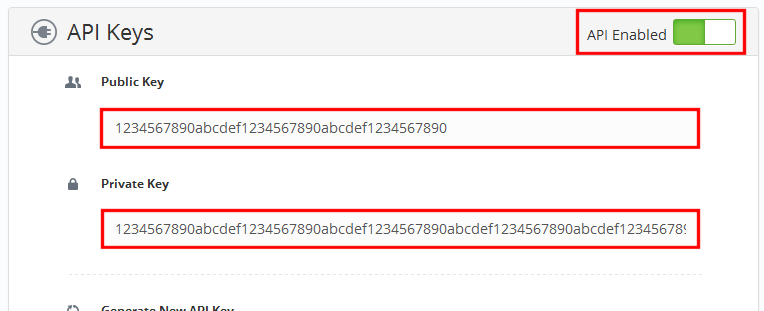
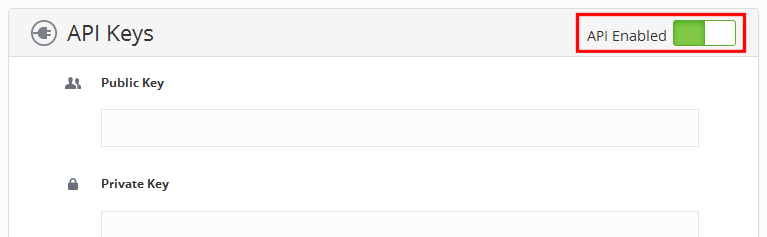
issue #104: adding support for Cryptsy accounts using Application keys
git-svn-id: https://openclerk.googlecode.com/svn/trunk@883 b12a1112-ca08-e5dd-f792-535eff3abf3b

diff --git a/templates/inline_accounts_cryptsy.php b/templates/inline_accounts_cryptsy.php
@@ -5,33 +5,42 @@ $account_data = array('exchange_name' => get_exchange_name('cryptsy'));
 <div class="instructions_add">
 <h2>Adding a <?php echo $account_data['exchange_name']; ?> account</h2>
 
-<h3 class="unsafe_warning">Warning: Providing your <?php echo $account_data['exchange_name']; ?> account data is <a href="http://code.google.com/p/openclerk/wiki/Unsafe">unsafe</a>.</h3>
-
 <ol class="steps">
-	<li>Log into your <a href="https://mtgox.com/security"><?php echo $account_data['exchange_name']; ?> account</a> and visit your <i>Settings</i>.<br>
+	<li>Log into your <a href="https://www.cryptsy.com/users/settings"><?php echo $account_data['exchange_name']; ?> account</a> and visit your <i>Settings</i>.<br>
 		<img src="<?php echo htmlspecialchars(url_for('img/accounts/cryptsy1.png')); ?>"></li>
 
-	<li>Under <i>API Keys</i>, make sure that your API is <i>enabled</i>.
-		Copy and paste your <i>Public Key</i> and <i>Private Key</i> into the <a class="wizard_link" href="<?php echo htmlspecialchars(url_for('wizard_accounts_exchanges')); ?>">"Add new Exchange" form</a>, and click "Add account".<br>
+	<li>Under <i>API Keys</i>, make sure that your API is <i>enabled</i>.<br>
+		<h1>TODO is this necessary?</h1>
 		<img src="<?php echo htmlspecialchars(url_for('img/accounts/cryptsy2.png')); ?>"></li>
+
+	<li>Under <i>Application Keys</i>, click on "Add New Application Key".<br>
+		<img src="<?php echo htmlspecialchars(url_for('img/accounts/cryptsy3.png')); ?>"></li>
+
+	<li>Select an <i>App ID</i> (for example, "Openclerk").
+		Make sure that the key has no permissions enabled, fill out any 2FA fields necessary, and click "Add Application Key".<br>
+		<img src="<?php echo htmlspecialchars(url_for('img/accounts/cryptsy4.png')); ?>"></li>
+
+	<li>Refresh the page. Once the page has reloaded, click on the <i>Edit Key</i> button for your new application key to view the necessary keys.<br>
+		<img src="<?php echo htmlspecialchars(url_for('img/accounts/cryptsy5.png')); ?>"></li>
+
+	<li>Copy and paste your <i>Application Key</i> and <i>App ID</i> into the <a class="wizard_link" href="<?php echo htmlspecialchars(url_for('wizard_accounts_exchanges')); ?>">"Add new Exchange" form</a>, and click "Add account".<br>
+		<img src="<?php echo htmlspecialchars(url_for('img/accounts/cryptsy6.png')); ?>"></li>
 </ol>
 </div>
 
 <div class="instructions_safe">
-<h2>Is it safe to provide <?php echo htmlspecialchars(get_site_config('site_name')); ?> a <?php echo $account_data['exchange_name']; ?> API key?</h2>
+<h2>Is it safe to provide <?php echo htmlspecialchars(get_site_config('site_name')); ?> a <?php echo $account_data['exchange_name']; ?> application API key?</h2>
 
 <ul>
-	<li><strong class="unsafe_warning">Providing <?php echo $account_data['exchange_name']; ?> account data is <a href="http://code.google.com/p/openclerk/wiki/Unsafe">unsafe</a>;</strong>
-		you need to ensure that you trust this server, and that it is not possible for somebody to access your host or database.</li>
+	<li>The <?php echo $account_data['exchange_name']; ?> application API key that you provide is not given any permissions, except to retrieve account status.
+		This means that it should not be possible
+		to perform trades or withdraw funds using that key.</li>
 
-	<li><?php echo $account_data['exchange_name']; ?> API keys are <strong>not read-only</strong>, and if someone was to
-		access your account data, they could make trades or withdraw funds using these keys.</li>
-
-	<li>Your <?php echo $account_data['exchange_name']; ?> keys and secrets will <i>never</i> be displayed on the <?php echo htmlspecialchars(get_site_config('site_name')); ?>
+	<li>Your <?php echo $account_data['exchange_name']; ?> keys will <i>never</i> be displayed on the <?php echo htmlspecialchars(get_site_config('site_name')); ?>
 		site, even if you have logged in.</li>
 
 	<li>Through the <?php echo $account_data['exchange_name']; ?> interface you can revoke a set of API keys&apos; access at any time by
-		going to <i>API Keys</i> and clicking on the green <i>Generate New Key</i> icon.<br>
-		<img src="<?php echo htmlspecialchars(url_for('img/accounts/cryptsy3.png')); ?>"></li>
+		going to <i>Application Keys</i> and clicking on the <i>Remove Application Key</i> button.<br>
+		<img src="<?php echo htmlspecialchars(url_for('img/accounts/cryptsy-delete.png')); ?>"></li>
 </ul>
 </div>

diff --git a/inc/crypto.php b/inc/crypto.php
@@ -308,7 +308,7 @@ function get_supported_wallets() {
 		"coinhuntr" => array('ltc', 'hash'),
 		"cryptostocks" => array('btc', 'ltc'),
 		"crypto-trade" => array('usd', 'eur', 'btc', 'ltc', 'nmc', 'ftc', 'ppc', 'xpm', 'trc'),
-		"cryptsy" => array('btc', 'ltc', 'ppc', 'ftc', 'xpm', 'nvc', 'trc', 'dog'),
+		"cryptsy" => array('btc', 'ltc', 'ppc', 'ftc', 'xpm', 'nvc', 'trc', 'dog', 'mec'),
 		"cexio" => array('btc', 'ghs', 'nmc'),		// also available: ixc, dvc
 		"dedicatedpool" => array('dog', 'hash'),		// other coins available
 		"dogechainpool" => array('dog', 'hash'),
@@ -365,7 +365,7 @@ function get_supported_wallets_safe() {
 }
 
 function get_new_supported_wallets() {
-	return array("miningpoolco", "vaultofsatoshi", "50btc", "ecoining", "ecoining_ppc", "teamdoge", "dedicatedpool", "dedicatedpool_doge", "nut2pools", "nut2pools_ftc");
+	return array("cryptsy");
 }
 
 // TODO remove xxx_address() and use this function instead
@@ -581,7 +581,7 @@ function account_data_grouped() {
 			'cexio' => array('table' => 'accounts_cexio', 'group' => 'accounts', 'wizard' => 'exchanges', 'failure' => true),
 			'coinbase' => array('table' => 'accounts_coinbase', 'group' => 'accounts', 'wizard' => 'exchanges', 'failure' => true),
 			'crypto-trade' => array('table' => 'accounts_cryptotrade', 'group' => 'accounts', 'wizard' => 'exchanges', 'failure' => true),
-			'cryptsy' => array('table' => 'accounts_cryptsy', 'group' => 'accounts', 'wizard' => 'exchanges', 'failure' => true, 'unsafe' => true),
+			'cryptsy' => array('table' => 'accounts_cryptsy', 'group' => 'accounts', 'wizard' => 'exchanges', 'failure' => true),
 			'justcoin' => array('table' => 'accounts_justcoin', 'group' => 'accounts', 'wizard' => 'exchanges', 'failure' => true),
 			'mtgox' => array('table' => 'accounts_mtgox', 'group' => 'accounts', 'wizard' => 'exchanges', 'failure' => true),
 			'vaultofsatoshi' => array('table' => 'accounts_vaultofsatoshi', 'group' => 'accounts', 'wizard' => 'exchanges', 'failure' => true),
@@ -1476,8 +1476,8 @@ function get_accounts_wizard_config_basic($exchange) {
 		case "cryptsy":
 			return array(
 				'inputs' => array(
-					'api_public_key' => array('title' => 'Public key', 'callback' => 'is_valid_cryptsy_public_key', 'length' => 40),
-					'api_private_key' => array('title' => 'Private key', 'callback' => 'is_valid_cryptsy_private_key', 'length' => 80),
+					'api_public_key' => array('title' => 'Application key', 'callback' => 'is_valid_cryptsy_public_key', 'length' => 40),
+					'api_private_key' => array('title' => 'App ID', 'callback' => 'is_valid_cryptsy_private_key', 'length' => 80),
 				),
 				'table' => 'accounts_cryptsy',
 			);
@@ -2356,13 +2356,13 @@ function is_valid_ypool_apikey($key) {
 }
 
 function is_valid_cryptsy_public_key($key) {
-	// looks like a 40 character hex string
-	return strlen($key) == 40 && preg_match("#^[a-f0-9]+$#", $key);
+	// looks like a 40 character hex string (full trade) or 18-19 characters (application keys)
+	return (strlen($key) >= 16 || strlen($key) <= 40) && preg_match("#^[a-f0-9]+$#", $key);
 }
 
 function is_valid_cryptsy_private_key($key) {
-	// looks like a 80 character hex string
-	return strlen($key) == 80 && preg_match("#^[a-f0-9]+$#", $key);
+	// can be anything
+	return strlen($key) > 0;
 }
 
 function is_valid_litecoininvest_apikey($key) {

diff --git a/batch_queue.php b/batch_queue.php
@@ -138,6 +138,7 @@ $standard_jobs = array(
 	array('table' => 'accounts_teamdoge', 'type' => 'teamdoge', 'failure' => true),
 	array('table' => 'accounts_dedicatedpool_doge', 'type' => 'dedicatedpool_doge', 'failure' => true),
 	array('table' => 'accounts_nut2pools_ftc', 'type' => 'nut2pools_ftc', 'failure' => true),
+	array('table' => 'accounts_cryptsy', 'type' => 'cryptsy', 'failure' => true),
 
 	array('table' => 'accounts_individual_litecoinglobal', 'type' => 'individual_litecoinglobal', 'failure' => true),
 	array('table' => 'accounts_individual_havelock', 'type' => 'individual_havelock', 'failure' => true),
@@ -151,7 +152,7 @@ if (get_site_config('allow_unsafe')) {
 	// run unsafe jobs only if the flag has been set
 	crypto_log("Running unsafe jobs.");
 	$standard_jobs = array_merge($standard_jobs, array(
-		array('table' => 'accounts_cryptsy', 'type' => 'cryptsy', 'failure' => true),
+		// empty for now
 	));
 }
 

diff --git a/batch_run.php b/batch_run.php
@@ -450,6 +450,10 @@ try {
 			require(__DIR__ . "/jobs/nut2pools_ftc.php");
 			break;
 
+		case "cryptsy":
+			require(__DIR__ . "/jobs/cryptsy.php");
+			break;
+
 		// individual securities jobs
 		case "individual_cryptostocks":
 			require(__DIR__ . "/jobs/individual_cryptostocks.php");
@@ -527,10 +531,7 @@ try {
 			// issue #12: unsafe accounts
 			if (get_site_config('allow_unsafe')) {
 				switch ($job['job_type']) {
-					case "cryptsy":
-						require(__DIR__ . "/jobs/cryptsy.php");
-						break 2;
-
+					// empty for now
 				}
 			}
 

diff --git a/templates/inline_add_service.php b/templates/inline_add_service.php
@@ -37,7 +37,6 @@ Exchanges/pools/services that do <em>not</em> have a suitable read-only API yet 
 <ul>
 	<li>Coin.Mx</li>
 	<li>Coins-E</li>
-	<li>Cryptsy (only available through an <a href="http://code.google.com/p/openclerk/wiki/Unsafe">unsafe instance</a>)</li>
 	<li>fast-pool.com</li>
 	<li>Flexcoin (<a href="https://bitcointalk.org/index.php?topic=57732.msg2022077#msg2022077">no API yet</a>)</li>
 	<li>Intersango (registration is closed)</li>

diff --git a/jobs/cryptsy.php b/jobs/cryptsy.php
@@ -2,7 +2,6 @@
 
 /**
  * Cryptsy balance job.
- * Unsafe.
  */
 
 $exchange = "cryptsy";
